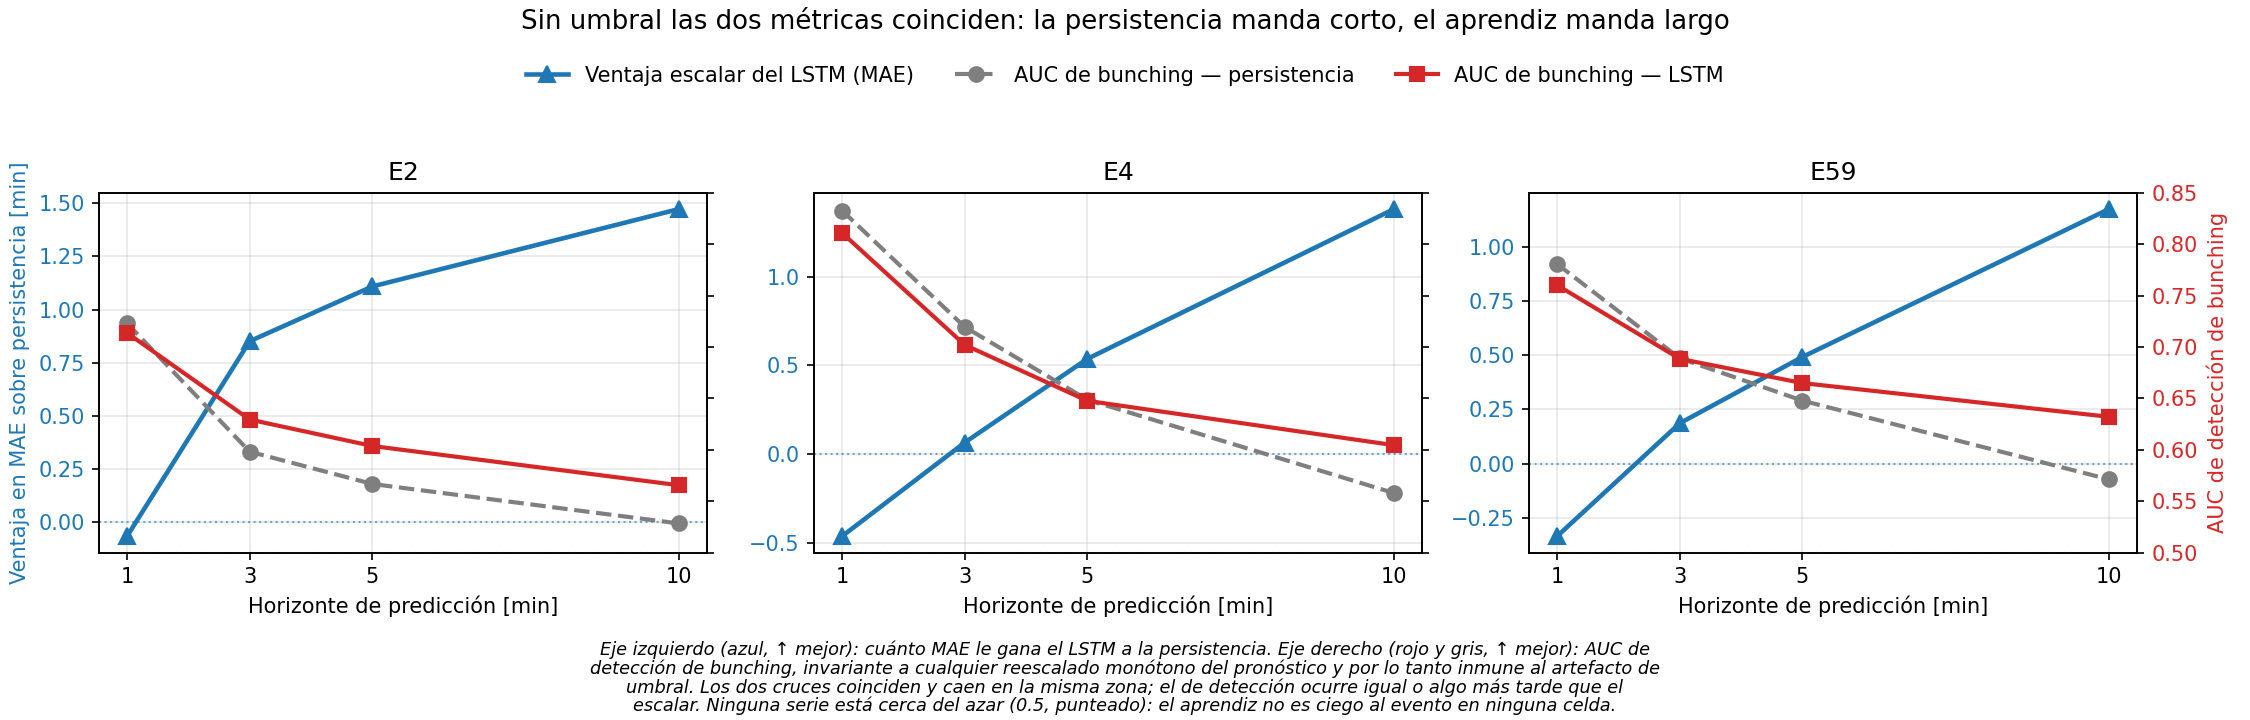
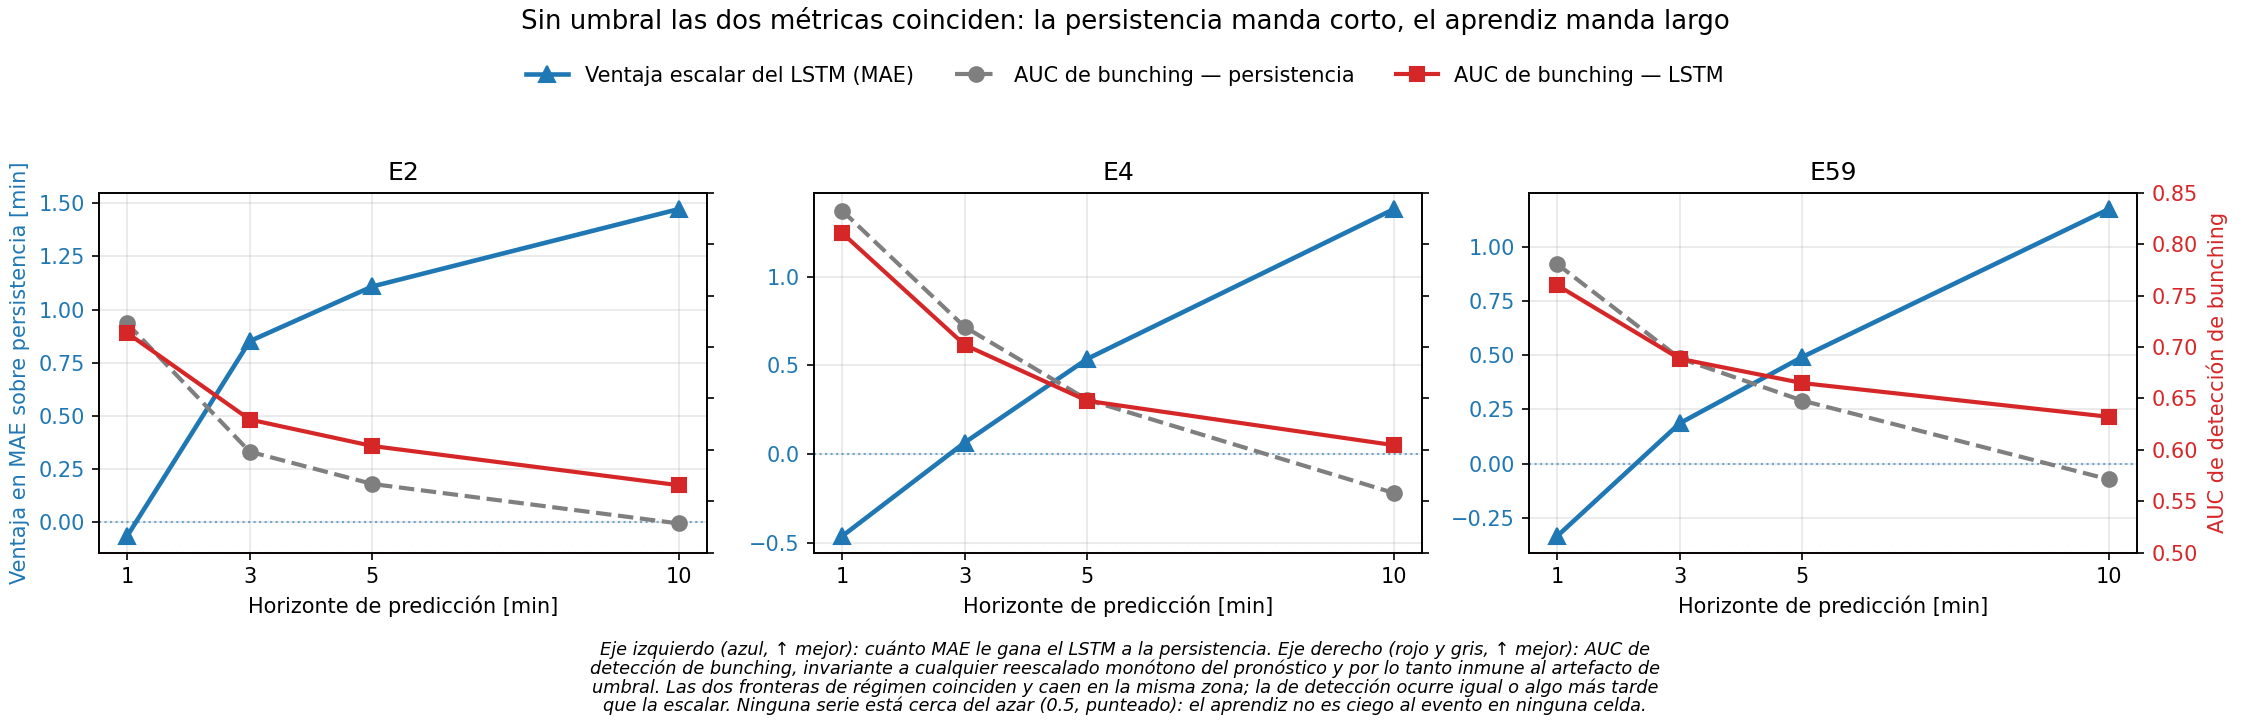
docs(paper): dar un solo nombre al cruce, a la frontera y a la matriz
`cruce` cargaba cuatro objetos. Se queda con el de la Ecuacion (1), que es
el unico definido y el que nombra la formulacion en el codigo (trailing
crossing). Los otros tres pasan a nombres que ya existian: la inversion de
ganador a `frontera de regimen`, titulo de V-A y anclado en assign_regime;
alcanzar el umbral a `alcanzar`, verbo de la linea anterior; y la tabla de
TP/FP/FN/TN a `matriz de confusion`, que es como la nombran Chicco y
Fawcett, las dos referencias citadas para el MCC y la curva ROC.

La 629 define `frontera de regimen`, que se usaba sin definir desde el
titulo de la seccion. La 648 deja de decir `frontera` a secas.

Alcance: paper.md 556, 629, 645, 648, 731, 812, 815, 817, 839; los pies
que generan build_contiguous_figures.py 290 y 522, con sus dos PNG
regenerados. El glosario suma las tres filas y las notas 18 a 21.

Changed region(s): [[0.2489, 0.9472, 0.7467, 1.0]]

diff --git a/src/build_contiguous_figures.py b/src/build_contiguous_figures.py
@@ -287,7 +287,7 @@ def degradation(*, lang: str = "es", chrome: bool = True) -> Path:
         _caption(fig, [
             "Los tres modelos puntúan las mismas celdas (contrato C1; sesgo de encuadre medido: 0.001 min).",
             "La persistencia gana a h = 1 en los tres corredores; los dos aprendices la superan desde h = 5 con holgura creciente.",
-            "El XGBoost reproduce el cruce: no es una propiedad del Deep Learning.",
+            "El XGBoost reproduce la frontera de régimen: no es una propiedad del Deep Learning.",
         ])
     fig.tight_layout(rect=(0, 0.10, 1, 0.88) if chrome else CLEAN_RECT)
 
@@ -519,8 +519,8 @@ def detection_without_threshold(*, lang: str = "es", chrome: bool = True) -> Pat
         _caption(fig, [
             "Eje izquierdo (azul, ↑ mejor): cuánto MAE le gana el LSTM a la persistencia. Eje derecho (rojo y gris, ↑ mejor): AUC de",
             "detección de bunching, invariante a cualquier reescalado monótono del pronóstico y por lo tanto inmune al artefacto de",
-            "umbral. Los dos cruces coinciden y caen en la misma zona; el de detección ocurre igual o algo más tarde que el",
-            "escalar. Ninguna serie está cerca del azar (0.5, punteado): el aprendiz no es ciego al evento en ninguna celda.",
+            "umbral. Las dos fronteras de régimen coinciden y caen en la misma zona; la de detección ocurre igual o algo más tarde",
+            "que la escalar. Ninguna serie está cerca del azar (0.5, punteado): el aprendiz no es ciego al evento en ninguna celda.",
         ])
     fig.tight_layout(rect=(0, 0.11, 1, 0.88) if chrome else CLEAN_RECT)
 

diff --git a/docs/paper/paper.md b/docs/paper/paper.md
@@ -553,8 +553,8 @@ quedan sobre la misma escala. Su sesgo es el CV de lo predicho menos el de lo
 observado, y un valor negativo dice que lo predicho es más regular que la realidad.
 
 El indicador derivado se puntúa con tres cantidades, ordenadas por cuánto dependen
-del umbral, sobre el cruce entre el indicador observado de la Ecuación (5) y el
-detector de la Ecuación (6). Sean TP las posiciones con $b_i = \hat{b}_i = 1$, FP
+del umbral, sobre la matriz de confusión entre el indicador observado de la
+Ecuación (5) y el detector de la Ecuación (6). Sean TP las posiciones con $b_i = \hat{b}_i = 1$, FP
 las que tienen $\hat{b}_i = 1$ y $b_i = 0$, FN las que tienen $b_i = 1$ y
 $\hat{b}_i = 0$, y TN las restantes. La precisión, el recall y el F1 son entonces
 
@@ -627,7 +627,7 @@ donde el detector nunca marca no recibe intervalo: no hay precisión que acotar.
 ## V. Resultados y discusión
 
 Esta sección reporta el error escalar del vector y la frontera de régimen que lo
-acota. Mide después la dispersión transversal de lo predicho, la detección con el
+acota: el punto a partir del cual el LSTM pasa a ganar. Mide después la dispersión transversal de lo predicho, la detección con el
 umbral del evento observado y el comportamiento del factor entre los tres orígenes.
 Cierra con la detección puntuada sin umbral y con el umbral recalibrado, los
 ensayos de robustez frente al origen y a la definición del evento, el
@@ -642,10 +642,10 @@ relación se invirtió y la persistencia ganó, por 0,46 minutos en E4 y 0,33 en
 En E2 la diferencia fue de 0,07 minutos y no resistió la prueba estadística al
 agrupar las observaciones por día de servicio.
 
-Tres precisiones acotan ese resultado. La primera es que el cruce no es una
-propiedad del aprendizaje profundo: el XGBoost lo reprodujo entero, y a
+Tres precisiones acotan ese resultado. La primera es que la frontera de régimen no
+es una propiedad del aprendizaje profundo: el XGBoost la reprodujo entera, y a
 diez minutos aventajó a la persistencia por 1,59 minutos en E2, 1,09 en E4 y 0,79
-en E59. La segunda es que la frontera real no es el horizonte sino la dispersión
+en E59. La segunda es que esa frontera no está en el horizonte sino en la dispersión
 de la ventana de entrada. Medida con los tercios de dispersión de la
 Sección IV-C, la ventaja del LSTM creció de forma ordenada del tercio calmo al
 volátil en 11 de las 12 celdas.
@@ -728,7 +728,7 @@ origen.
 El segundo es el mecanismo de la Sección V-B. El umbral se mide contra el promedio
 del propio vector evaluado. Si el vector predicho es más regular que la realidad, sus
 headways se apartan menos de su propio promedio, y el umbral deja de alcanzarse
-casi siempre. La regla registra entonces una dispersión insuficiente para cruzar
+casi siempre. La regla registra entonces una dispersión insuficiente para alcanzar
 un umbral calibrado sobre otra distribución.
 
 El tercero es el acierto del modelo en las pocas ocasiones en que disparó. De
@@ -809,12 +809,13 @@ umbral no depende entonces de cuál de los dos puntajes se use. Con el MCC
 recalibrado el acuerdo baja a once de doce. La excepción es E59 a cinco minutos,
 donde el LSTM gana el AUC y pierde la correlación recalibrada.
 
-Los dos cruces coinciden. Medido por el signo de la diferencia, el
+Las dos fronteras de régimen coinciden. Medido por el signo de la diferencia, el
 error escalar pasó a favor del LSTM entre uno y tres minutos en los tres
 corredores. El AUC pasó a su favor entre uno y tres minutos en E2, entre tres y
-cinco en E59, y entre cinco y diez en E4. La detección cruzó entonces uno o dos
-escalones de horizonte más tarde que el error en dos de los tres corredores.
-Ninguna de las dos métricas cruzó a favor de la persistencia. La disociación que las
+cinco en E59, y entre cinco y diez en E4. La detección cambió de régimen entonces
+uno o dos escalones de horizonte más tarde que el error en dos de los tres
+corredores. En ninguna de las dos volvió la ventaja a la persistencia al alargar
+el horizonte. La disociación que las
 Secciones V-A y V-C parecían mostrar, con el LSTM ganando en error y perdiendo en
 detección, la producía el umbral.
 
@@ -835,7 +836,7 @@ La serie azul mide cuánto error absoluto le gana el LSTM a la persistencia, y s
 escala corre por el lado izquierdo. Las dos series que se leen por el lado
 derecho son el área bajo la curva de detección de cada método, invariante a
 cualquier reescalado monótono de lo predicho y por lo tanto inmune al artefacto.
-Los dos cruces coinciden, y ninguna serie se acerca al azar.
+Las dos fronteras de régimen coinciden, y ninguna serie se acerca al azar.
 
 **Tabla 2.** Veredicto sin umbral y con el umbral recalibrado fuera de muestra.
 

diff --git a/docs/paper/glosario-terminos.md b/docs/paper/glosario-terminos.md
@@ -35,6 +35,9 @@ Aquí solo va la decisión.
 | La combinación de corredor y horizonte | `celda` | 30 | `case` ⁹ | par ¹⁴, combinación |
 | Los $T$ minutos de historia que lee el modelo | `ventana de entrada` | 5 | `input window` ¹⁰ | ventana ¹¹ |
 | Una re-ejecución completa del protocolo | `origen` | 32 | `evaluation origin`, `fold` | ventana |
+| El instante en que el de adelante pasó por la coordenada del de atrás | `cruce` | 4 | `crossing` ¹⁸ | — |
+| El punto a partir del cual el LSTM pasa a ganar | `frontera de régimen` | 5 | ¹⁹ | cruce, frontera ²⁰ |
+| La tabla que cruza lo observado con lo predicho | `matriz de confusión` | 1 | `confusion matrix` ²¹ | cruce |
 | El valor contra el que se compara el headway | `umbral` | 95 | `threshold` | corte, referencia |
 | El valor del que el umbral es una fracción | `denominador` | 7 | `denominator` ¹² | referencia |
 | El error que fijan los métodos sin ajuste | `error de referencia` | 2 | `reference` | línea base, benchmark |
@@ -121,6 +124,33 @@ Aquí solo va la decisión.
     coordenadas crudas y por otro procedimiento —PCA sobre `(lat, lon)` en el
     notebook 01, contra la mediana por bins del 04—. El eje es la curva ajustada;
     la dirección es la recta que la hace posible.
+
+18. Sin término que heredar: `crossing`, `crossed` y `crosses` dan **cero** usos
+    en las 11 referencias, porque todas miden en paradas y nada cruza nada.
+    Acuñado, pero definido en la 240 y respaldado por el nombre de la formulación
+    en el código —«Opción C.2 — **trailing crossing**», `build_notebook_04.py:70`,
+    y «a pair with no **crossing**», `build_headway_coverage.py:4`.
+19. **En inglés este objeto no se nombra con un sustantivo: se dice con verbo**,
+    «the LSTM **outperforms** persistence from three minutes on» —`outperform`, 31
+    usos en 7 de 11—. Los sustantivos candidatos no existen: `crossover` **cero**,
+    `cross over` **cero**, `break-even` **cero**, `tipping point` **cero**,
+    `turning point` **cero**, `regime boundary` **cero**. Y `boundary`, que tiene
+    40 usos, no sirve: 29 son `decision boundary` en un trabajo de clasificación, y
+    este paper clasifica bunching. Traducir `cruce` por `crossing` y este objeto
+    por `crossover` recrearía en inglés el defecto que el castellano acaba de
+    quitar, porque comparten raíz.
+20. `frontera` **nunca va sola**, como `ventana`. La mitad anclada del compuesto
+    es `régimen`, que el código define: «The **regime** is the ex-ante
+    input-window dispersion, binned with p33/p66 frozen on train+val»
+    (`build_contiguous_router.py:27`), con su `assign_regime`. `frontera` sola
+    solo tiene un docstring detrás (`build_contiguous_figures.py:300`), y en las
+    11 referencias `frontier` da **cero**.
+21. El concepto ya estaba construido sin nombre: la 557 define TP, FP, FN y TN una
+    por una. `confusion matrix` da 46 usos, y están en Chicco (39) y Fawcett (7),
+    que son justo las dos referencias que el paper cita para el MCC y la curva
+    ROC. En el código, `vector_metrics.py:59`. No se presta sin traducir porque
+    «matriz de confusión» es el nombre estándar en castellano; `headway` se presta
+    porque no lo tiene.
 
 ## Nota sobre la concordancia
 
